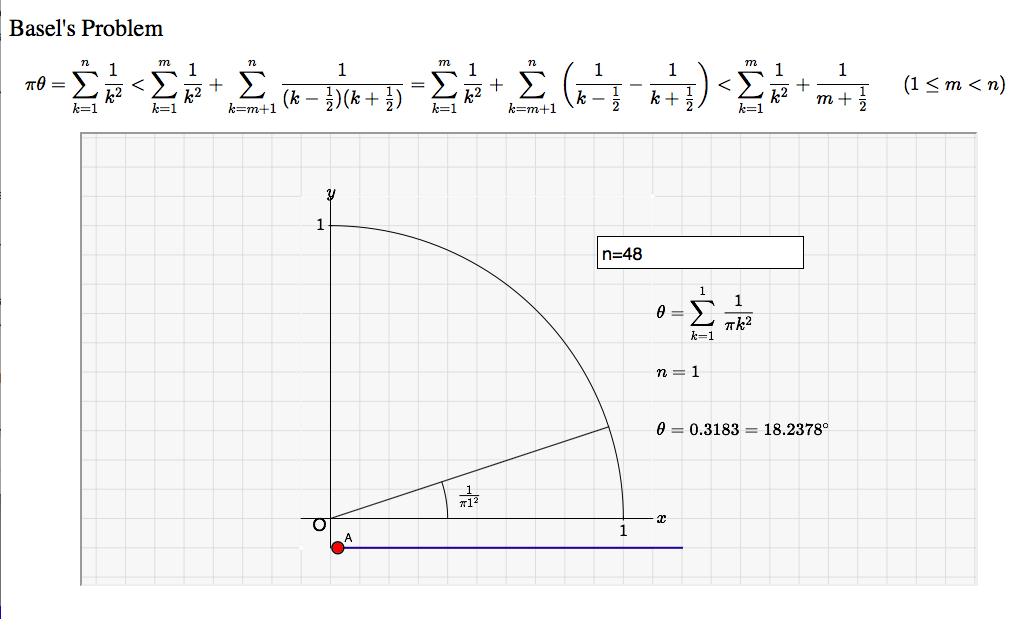
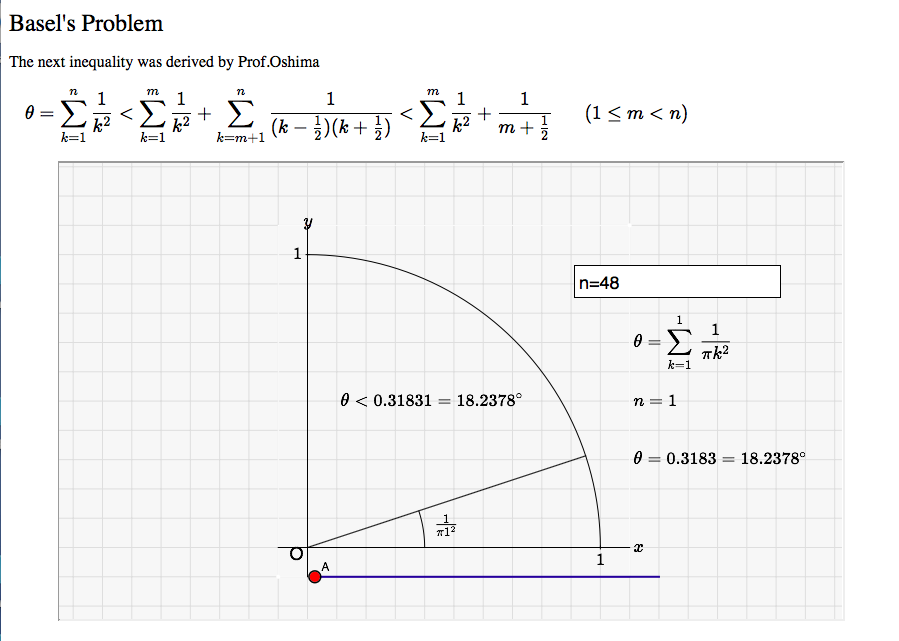
basel(v6)

diff --git a/misc/offline/basel2jsoffL.html b/misc/offline/basel2jsoffL.html
@@ -1103,43 +1103,22 @@ Totexformpart(str):=( //190514
   );
   out;
 );
-Fracform(x):=Fracform(x,1..100,5);
-Fracform(x,Arg):=( //200329
-  if(islist(Arg),
-    Fracform(x,Arg,5);
+Sprintf(value,dig):=(
+  regional(vv,tmp,tmp1);
+  if(!islist(value),  // 17.03.12from
+    if(isstring(value),
+      vv=value;
+    ,
+      vv=Textformat(value,dig);
+    );  // 17.03.12from
+    if(indexof(vv,".")==0,vv=vv+".");
+    vv=vv+"0000000000000000";
+    tmp=indexof(vv,".")+dig;
+    vv=substring(vv,0,tmp);
   ,
-    if(Arg<0,Fracform(x,1..100,-Arg),Fracform(x,1..Arg,5));
+    vv=apply(value,Sprintf(#,dig));
   );
-);
-Fracform(x,denorg,deg):=(
-  regional(Eps,denL,fL,flg,tmp,nn,mm,err);
-  Eps=10^(-abs(deg));
-  denL=denorg;
-  if(!islist(denL),denL=1..denL);
-  fL=[];
-  flg=0;
-  forall(denL,
-    if(flg==0,
-      tmp=round(x*#);
-      tmp=[tmp,#,abs(tmp/#-x)];
-      if(tmp_3<Eps,
-        flg=1;
-      ,
-        fL=append(fL,tmp);
-      );
-    );
-  );
-  if(flg==0,
-    fL=sort(fL,#_3);
-    tmp=fL_1;
-  );
-  mm=tmp_1; nn=tmp_2; err=abs(x-mm/nn);
-  if(nn>1,
-    out="fr("+text(mm)+","+text(nn)+")";
-  ,
-    out=text(mm);
-  );
-  [out,"err="+format(err,10),mm,nn]; //190914
+  vv;
 );
 Ptend(Fig):=(
   regional(tmp);
@@ -1809,15 +1788,12 @@ forall(1..n,k,
   Listplot(text(ctr),[p0,pP],["Msg=n"]);
   ctr=ctr+1;
 );
-t0=t;
-tmp=Fracform(6*t,2500);
 tmp=parse("sg"+text(ctr-1));
 tmp=tmp_2;
 tmp=arctan2(tmp_1,tmp_2);
 str="\theta="+format(tmp,4)+"=";
 str=str+format(tmp*180/pi,4)+"^{\circ}";
 Expr([11,3],"e",str,[size]);
-pP0=[0,0];
 forall(1..(n-1),m,
   t1=0;
   forall(1..m,k,
@@ -1826,12 +1802,18 @@ forall(1..(n-1),m,
   t1=t1+1/(pi*(m+1/2));
   pP=r*[cos(t1),sin(t1)];
   Listplot(text(ctr),[p0,pP],["Msg=n","Color=red"]);
-  if((|pP-pP0|>0.4)%(m==n-1),
+  if(m==n-1,
     Expr(pP,"ne",m,["Color=red"]);
   );
-  pP0=pP;
   ctr=ctr+1;
 );
+
+tmp=parse("sg"+text(ctr-1));
+tmp=tmp_2;
+tmp=arctan2(tmp_1,tmp_2);
+str="\theta<"+Sprintf(tmp,5)+"=";
+str=str+Sprintf(tmp*180/pi,4)+"^{\circ}";
+Expr([1,5],"e",str,[size]);
 
 p2=Ptend("sg1");
 tmp=Assign("E="+akt,["k","1"]);
@@ -1864,9 +1846,9 @@ var cdy = CindyJS({
   ],
   ports: [{
     id: "CSCanvas",
-    width: 894,
-    height: 450,
-    transform: [{visibleRect: [-8.484687819283746, 13.128219181145274, 22.039702162364822, -2.2364066485436034]}],
+    width: 783,
+    height: 456,
+    transform: [{visibleRect: [-8.484687819283746, 13.128219181145274, 18.2497611243749, -2.4412683262727883]}],
     grid: 1.0,
     snap: true,
     background: "rgb(247,247,247)"

diff --git a/misc/offline/basel2mainoff.html b/misc/offline/basel2mainoff.html
@@ -12,9 +12,10 @@
 <body
 <p></p>
 <p><font size="5">Basel's Problem</font></p>
-<p><font size="3">&emsp;$\displaystyle\pi\theta=\sum_{k=1}^n\frac{1}{k^2}<\sum_{k=1}^m\frac{1}{k^2}+\sum_{k=m+1}^{n}\dfrac{1}{(k-\tfrac{1}{2})(k+\tfrac{1}{2})}=\sum_{k=1}^m\frac{1}{k^2}+\sum_{k=m+1}^{n}\left(\dfrac{1}{k-\tfrac{1}{2}}-\dfrac{1}{k+\tfrac{1}{2}}\right)<\sum_{k=1}^m\frac{1}{k^2}+\frac{1}{m+\tfrac{1}{2}}$&emsp;&emsp;$(1 \le m < n)$</font></p>
+<p><font size="3">The next inequality was derived by Prof.Oshima</font></p>
+<p><font size="3">&emsp;$\displaystyle\theta=\sum_{k=1}^n\frac{1}{k^2}<\sum_{k=1}^m\frac{1}{k^2}+\sum_{k=m+1}^{n}\dfrac{1}{(k-\tfrac{1}{2})(k+\tfrac{1}{2})}<\sum_{k=1}^m\frac{1}{k^2}+\frac{1}{m+\tfrac{1}{2}}$&emsp;&emsp;$(1 \le m < n)$</font></p>
 <p></p>
-<p align="center"><iframe src="basel2jsoffL.html" width="894" height="450"></iframe></p>
+<p align="center"><iframe src="basel2jsoffL.html" width="783" height="456"></iframe></p>
 <p></p>
 </body>
 </html>
